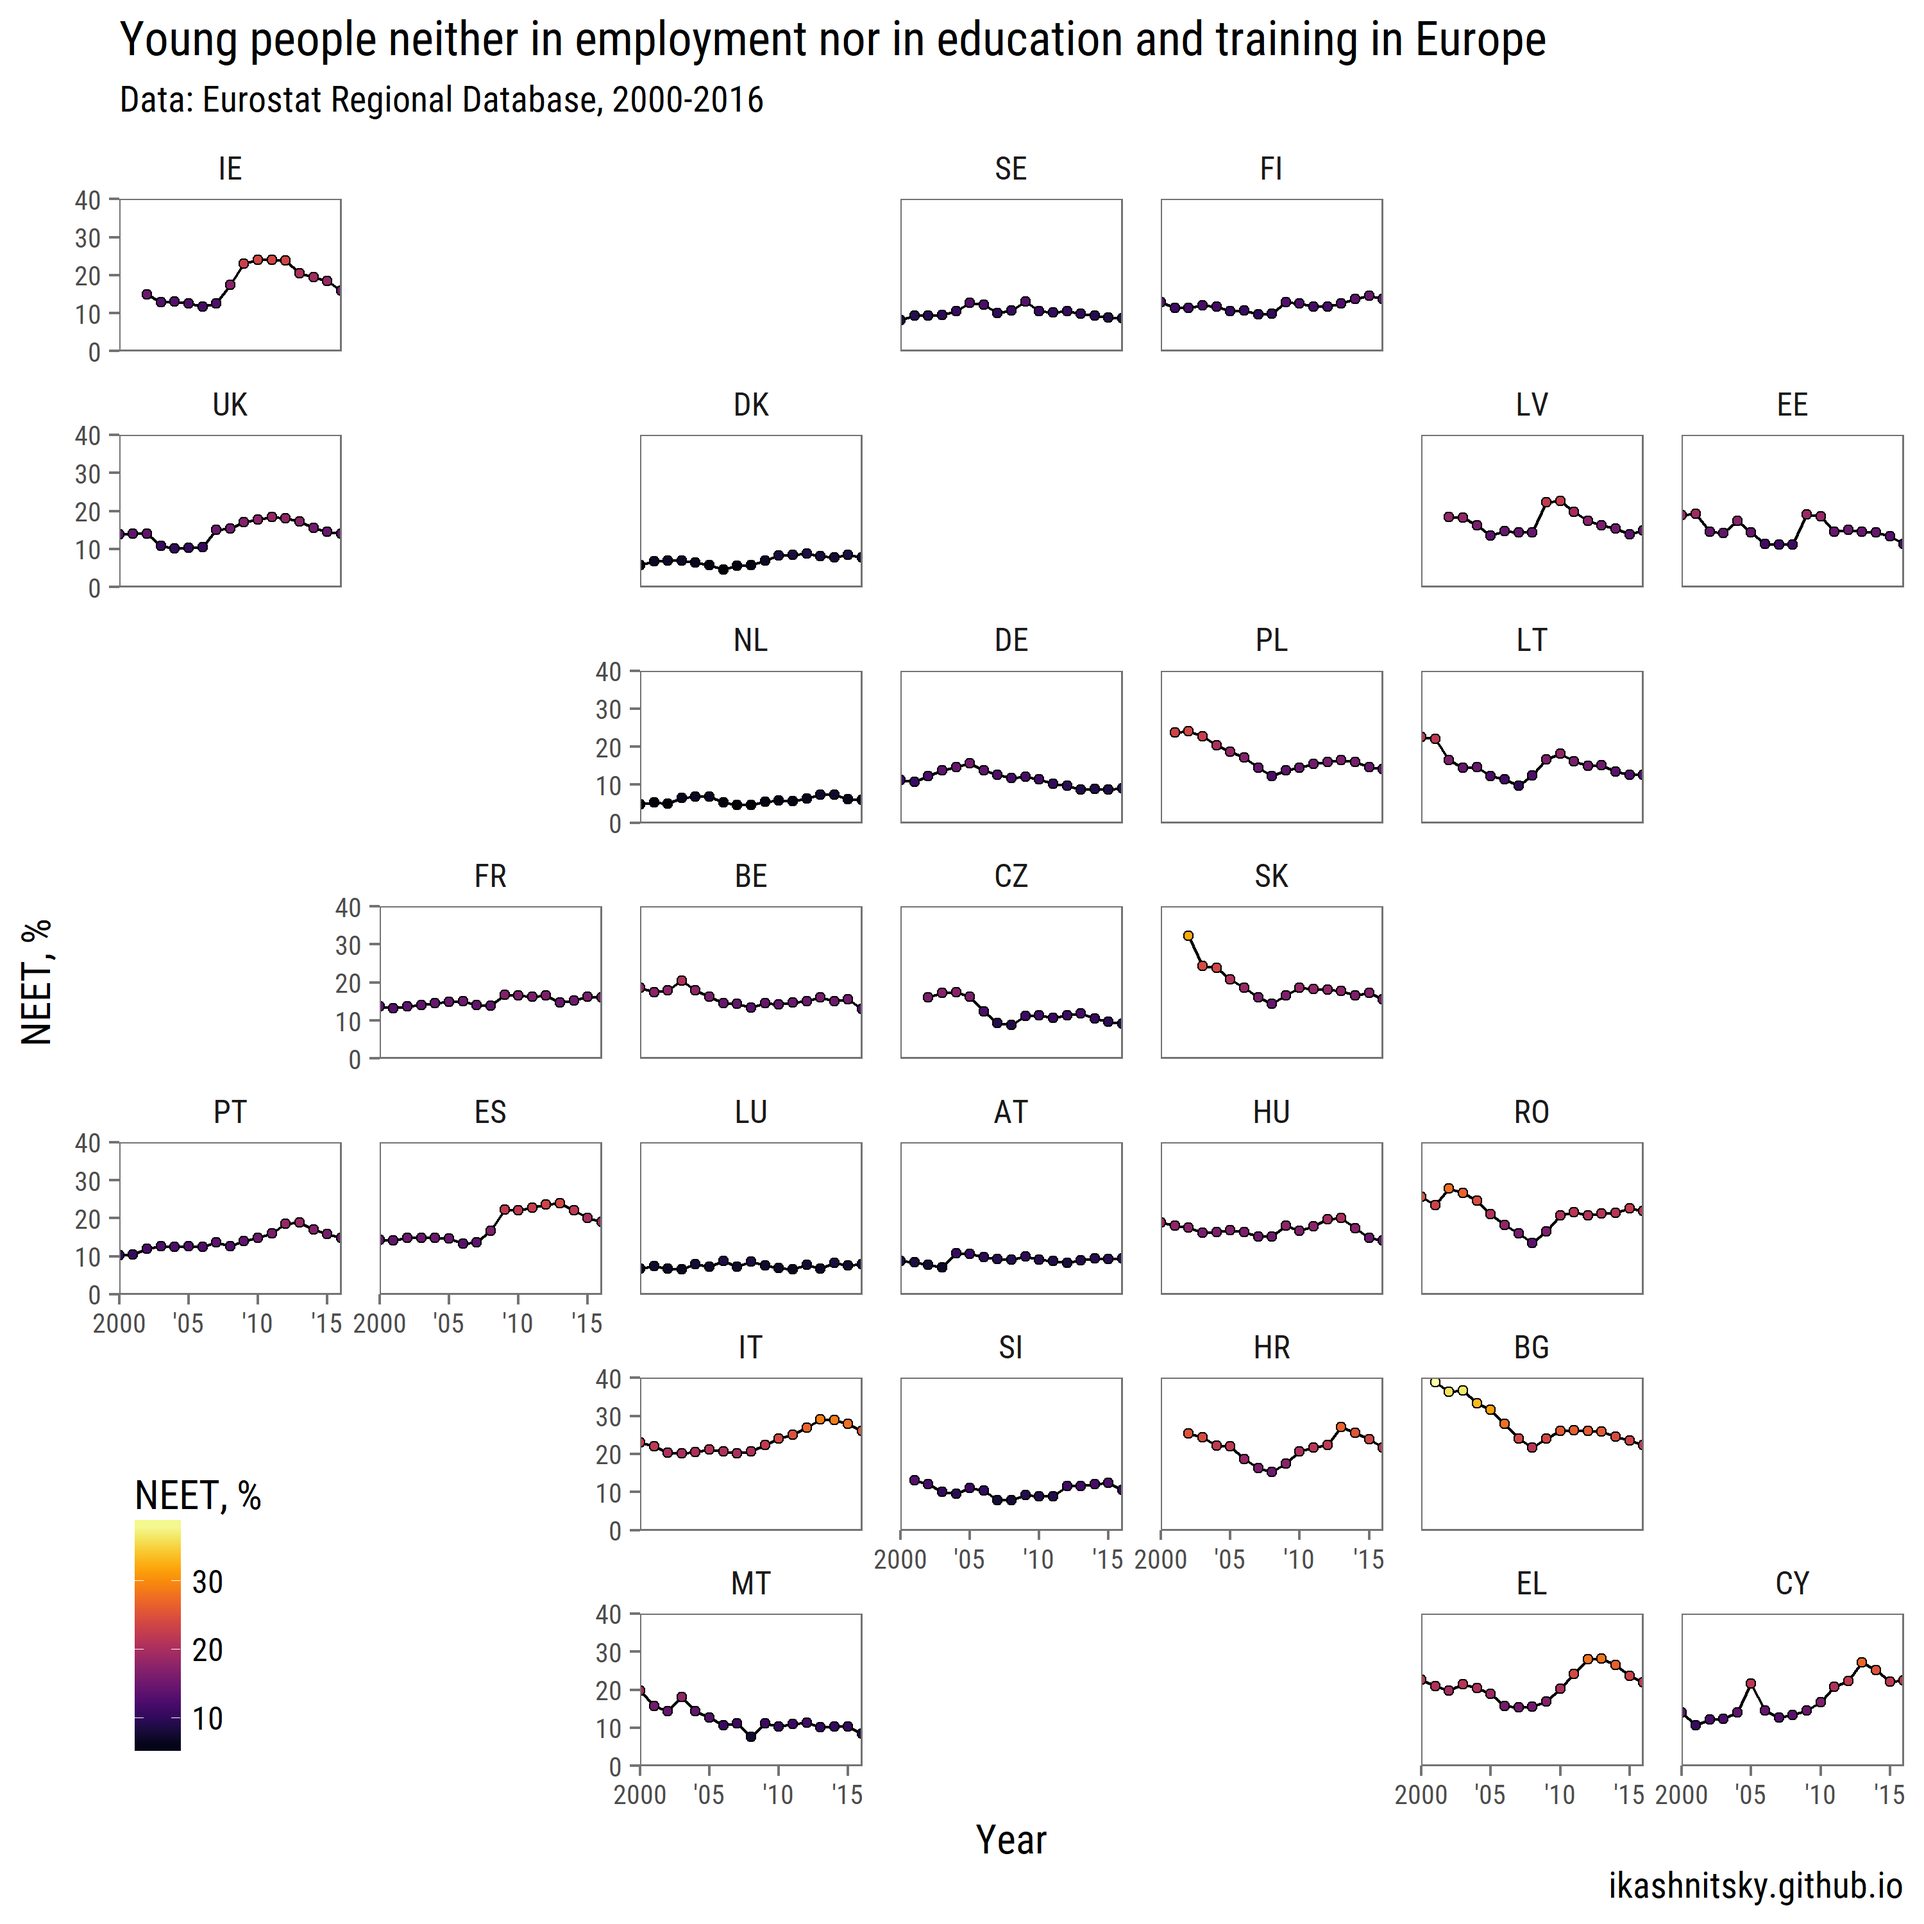
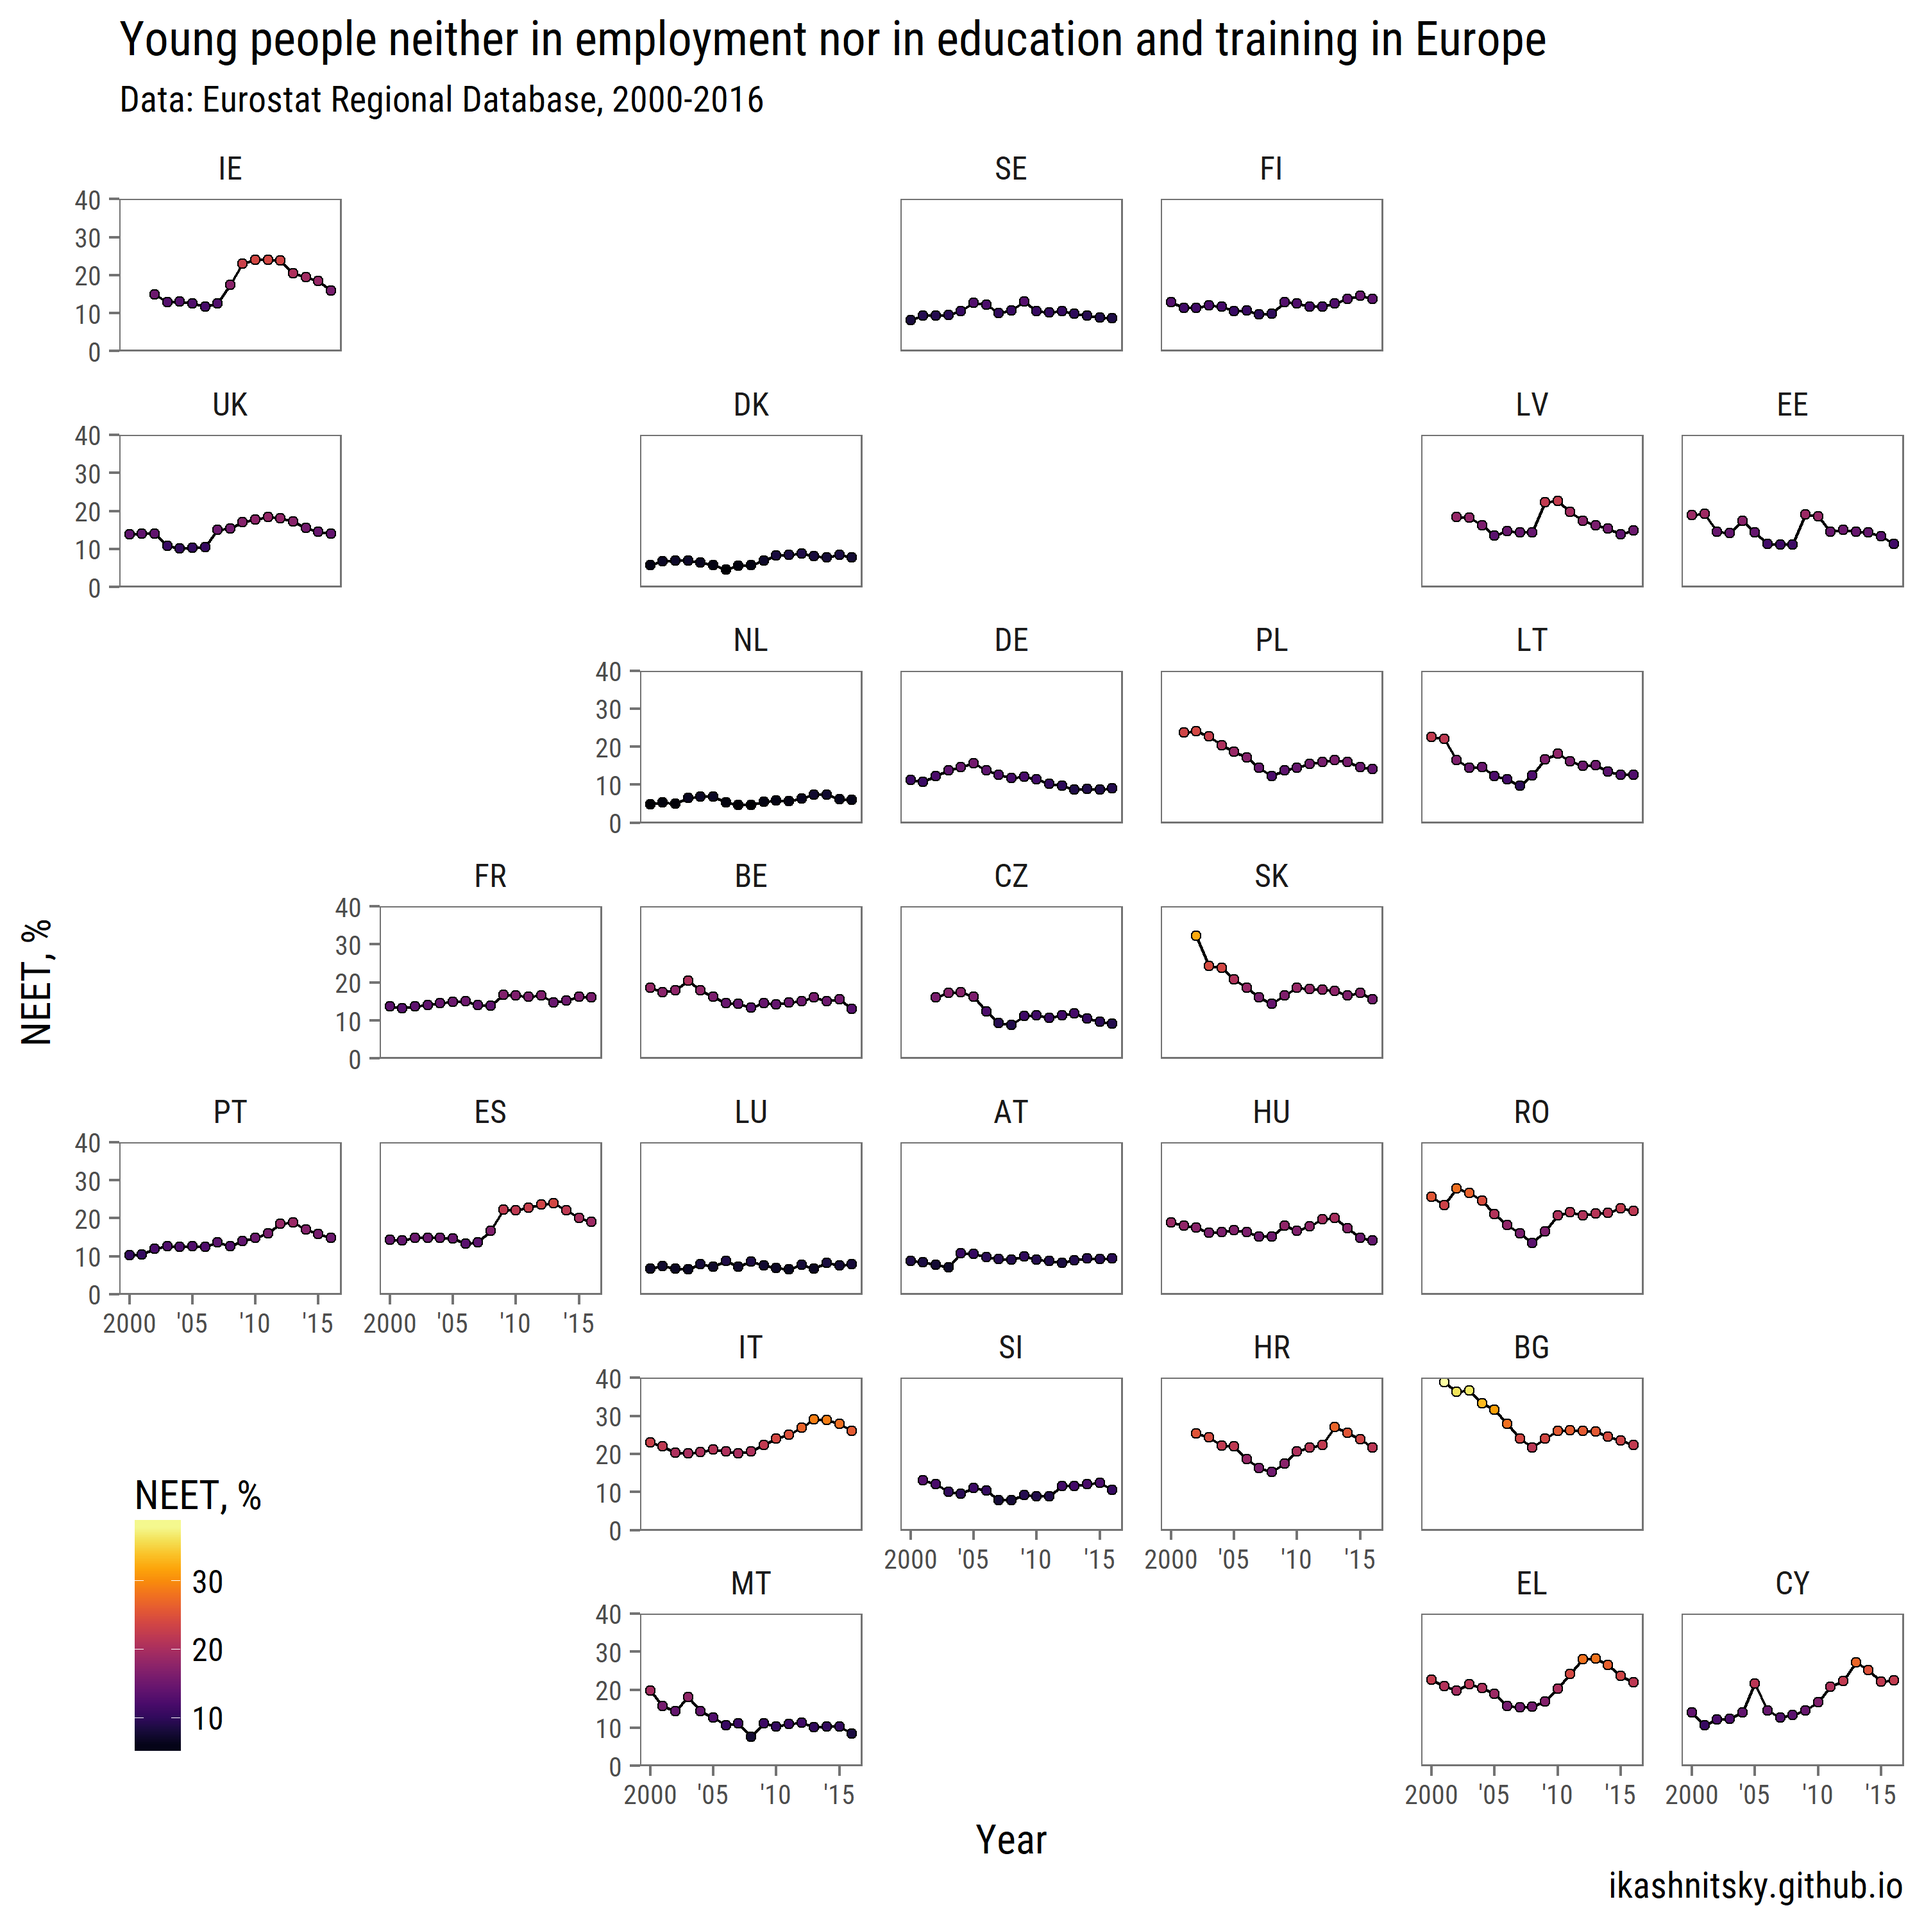
hotfix image

diff --git a/_posts/2017-07-18-neet-in-europe.md b/_posts/2017-07-18-neet-in-europe.md
@@ -5,8 +5,6 @@ image:
   teaser: 170718-teaser.jpg
 ---
 
-[![fig1][f1]][f1]  
-
 # R Documentation at Stack Overflow
 One of the nice features of `R` is the ease of data acquisition. I am now working on the examples of data acquisition form different sources within an R session. Soon I am going publish a long-read with an overview of demographic data acquisition in R.
 
@@ -43,12 +41,11 @@ neet %>%
         ungroup() %>% 
         ggplot(aes(x = time %>% year(),
                    y = values))+
-        coord_cartesian(expand = c(0, 0), 
-                        ylim = c(0, 40))+
         geom_path(aes(group = 1))+
         geom_point(aes(fill = values), pch = 21)+
         scale_x_continuous(breaks = seq(2000, 2015, 5),
                            labels = c("2000", "'05", "'10", "'15"))+
+        scale_y_continuous(expand = c(0, 0), limits = c(0, 40))+
         scale_fill_viridis("NEET, %", option = "B")+
         facet_geo(~ geo, grid = "eu_grid1")+
         labs(x = "Year",
